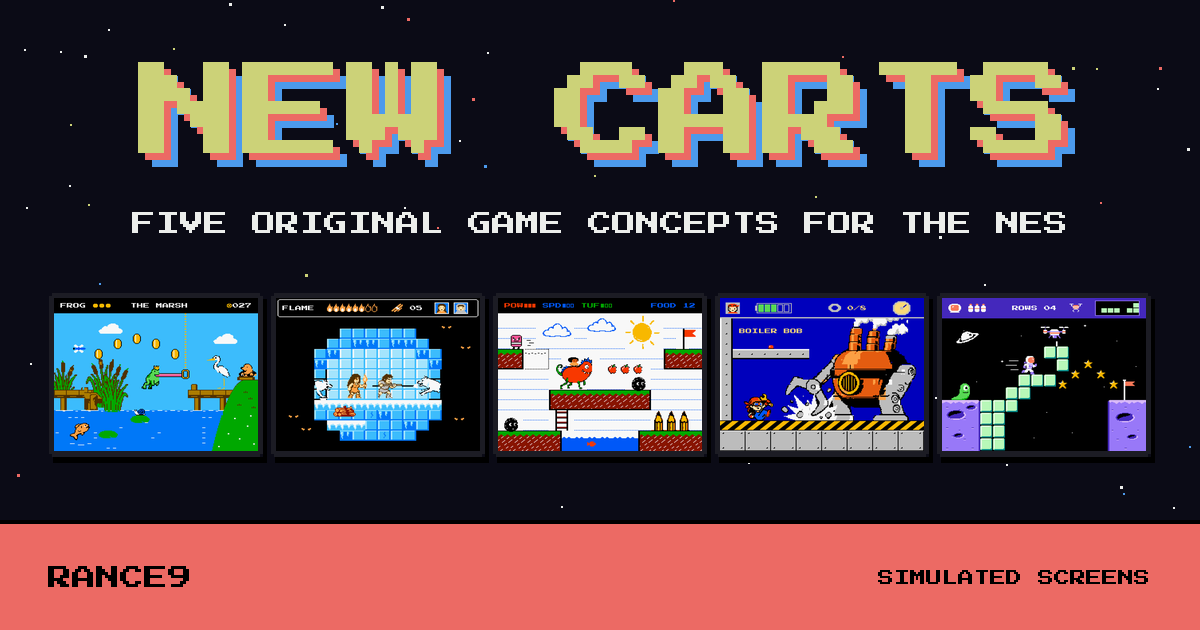
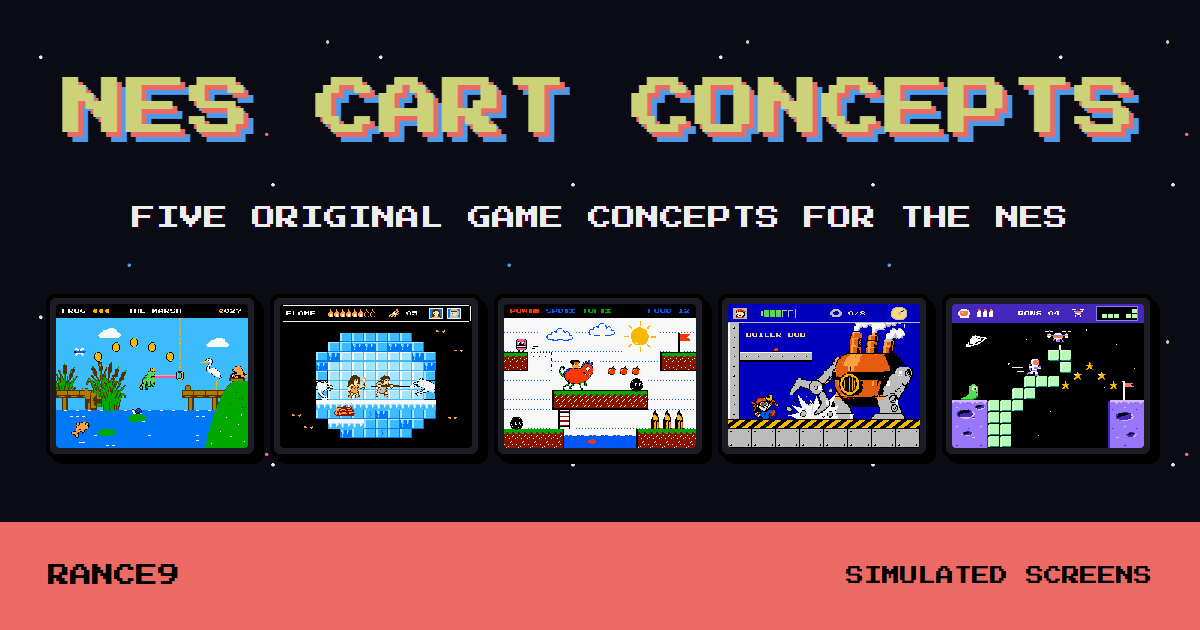
Rename New Carts to NES Cart Concepts and line up the project cards
Home page: the project card is now NES Cart Concepts, with its title in
the concepts page's pixel logo colours. On wide screens the four cards
share row tracks, so each title, tagline, release, divider, description
and button lines up with the same part of the card beside it.

Concepts page: new title, head text and structured data; the Press Start
button, the ticker and top-bar count, and the closing call-out section
are removed, along with their unused styles. The sharing image and
llms.txt use the new name.

diff --git a/new-carts/index.html b/new-carts/index.html
@@ -4,28 +4,28 @@
   <meta charset="utf-8">
   <meta name="viewport" content="width=device-width, initial-scale=1">
   <meta http-equiv="Content-Security-Policy" content="default-src 'none'; img-src 'self'; style-src 'self'; font-src 'self'; script-src 'self'; base-uri 'none'; form-action 'none'; object-src 'none'">
-  <title>New Carts: Five Original NES Game Concepts | Rance9</title>
-  <meta name="description" content="Five original game concepts for the NES from Rance9: Crowned, One Flame, Scribble Beast, Bolts and Drop &amp; Dash. Pick the cart you would play first.">
+  <title>NES Cart Concepts: Five Original Game Concepts | Rance9</title>
+  <meta name="description" content="Five original game concepts for the NES from Rance9: Crowned, One Flame, Scribble Beast, Bolts and Drop &amp; Dash.">
   <link rel="canonical" href="https://rance9.com/new-carts/">
   <meta name="theme-color" content="#0b0b16">
   <meta name="color-scheme" content="dark">
 
   <meta property="og:type" content="website">
   <meta property="og:site_name" content="Rance9">
-  <meta property="og:title" content="New Carts: five original NES game concepts">
-  <meta property="og:description" content="Five original game concepts for the NES from Rance9: Crowned, One Flame, Scribble Beast, Bolts and Drop &amp; Dash. Pick the cart you would play first.">
+  <meta property="og:title" content="NES Cart Concepts: five original game concepts">
+  <meta property="og:description" content="Five original game concepts for the NES from Rance9: Crowned, One Flame, Scribble Beast, Bolts and Drop &amp; Dash.">
   <meta property="og:url" content="https://rance9.com/new-carts/">
   <meta property="og:image" content="https://rance9.com/assets/images/new-carts/new-carts-og-1200x630.png">
   <meta property="og:image:width" content="1200">
   <meta property="og:image:height" content="630">
   <meta property="og:image:type" content="image/png">
-  <meta property="og:image:alt" content="New Carts in large pixel letters above five simulated game screens in television frames, with the line Five original game concepts for the NES.">
+  <meta property="og:image:alt" content="NES Cart Concepts in large pixel letters above five simulated game screens in television frames, with the line Five original game concepts for the NES.">
 
   <meta name="twitter:card" content="summary_large_image">
-  <meta name="twitter:title" content="New Carts: five original NES game concepts">
-  <meta name="twitter:description" content="Five original game concepts for the NES from Rance9: Crowned, One Flame, Scribble Beast, Bolts and Drop &amp; Dash. Pick the cart you would play first.">
+  <meta name="twitter:title" content="NES Cart Concepts: five original game concepts">
+  <meta name="twitter:description" content="Five original game concepts for the NES from Rance9: Crowned, One Flame, Scribble Beast, Bolts and Drop &amp; Dash.">
   <meta name="twitter:image" content="https://rance9.com/assets/images/new-carts/new-carts-og-1200x630.png">
-  <meta name="twitter:image:alt" content="New Carts in large pixel letters above five simulated game screens in television frames, with the line Five original game concepts for the NES.">
+  <meta name="twitter:image:alt" content="NES Cart Concepts in large pixel letters above five simulated game screens in television frames, with the line Five original game concepts for the NES.">
 
   <link rel="icon" href="/assets/icons/favicon.ico" sizes="16x16 32x32 48x48">
   <link rel="icon" href="/assets/icons/favicon.svg" type="image/svg+xml">
@@ -39,8 +39,8 @@
   {
     "@context": "https://schema.org",
     "@type": "CollectionPage",
-    "name": "New Carts",
-    "description": "Five original game concepts for the NES from Rance9: Crowned, One Flame, Scribble Beast, Bolts and Drop & Dash. Pick the cart you would play first.",
+    "name": "NES Cart Concepts",
+    "description": "Five original game concepts for the NES from Rance9: Crowned, One Flame, Scribble Beast, Bolts and Drop & Dash.",
     "url": "https://rance9.com/new-carts/",
     "isPartOf": {
       "@type": "WebSite",
@@ -178,19 +178,18 @@
 </head>
 <body>
 
-<div class="hud"><div class="wrap px"><a href="/">Rance9</a><span>5 new game concepts</span></div></div>
+<div class="hud"><div class="wrap px"><a href="/">Rance9</a></div></div>
 
 <header class="hero">
   <div class="wrap">
     <p class="px">Rance9 presents</p>
-    <h1>NEW CARTS</h1>
+    <h1>NES CART CONCEPTS</h1>
     <p class="sub">Five original game concepts for the NES.</p>
     <p class="brag">Wear a frog. Carry the fire. Draw a monster. Climb a robot. Bury a boss.</p>
-    <a class="start" href="#select">Press Start</a>
   </div>
   <div class="ticker px" aria-hidden="true"><div>
-    <span>Crowned</span><span>One Flame</span><span>Scribble Beast</span><span>Bolts</span><span>Drop &amp; Dash</span><span>5 new game concepts</span>
-    <span>Crowned</span><span>One Flame</span><span>Scribble Beast</span><span>Bolts</span><span>Drop &amp; Dash</span><span>5 new game concepts</span>
+    <span>Crowned</span><span>One Flame</span><span>Scribble Beast</span><span>Bolts</span><span>Drop &amp; Dash</span>
+    <span>Crowned</span><span>One Flame</span><span>Scribble Beast</span><span>Bolts</span><span>Drop &amp; Dash</span>
   </div></div>
 </header>
 
@@ -340,13 +339,6 @@
 
 </main>
 
-<section class="cta">
-  <div class="wrap">
-    <h2>WHICH CART GOES IN FIRST?</h2>
-    <p>Tell Rance9 which one you would play.</p>
-    <a class="addr" href="mailto:contact@rance9.com?subject=New%20Carts">contact@rance9.com</a>
-  </div>
-</section>
 
 <footer>
   <div class="wrap">

diff --git a/assets/css/styles.css b/assets/css/styles.css
@@ -1102,6 +1102,10 @@ main:focus { outline: none; }
   }
 }
 
+/* Projects: four cards on a shared grid. On wide screens the cards sit two
+   per row and share row tracks (subgrid), so every part of a card (title,
+   tagline, release, divider, description, button) lines up with the same
+   part of the card beside it, whatever the text lengths. */
 #projects .projects-grid {
   display: grid;
   grid-template-columns: minmax(0, 1fr);
@@ -1113,40 +1117,22 @@ main:focus { outline: none; }
   margin: 0;
 }
 
-#projects .product-name--nc {
-  position: relative;
-  font-family: var(--mono);
-  font-weight: 700;
-  font-size: 2.5rem;
-  line-height: 1.05;
-  letter-spacing: 0;
-}
-
+/* NES Cart Concepts: the title wears its page's logo, lemon pixel letters
+   with coral and sky-blue layered shadows. */
+#projects .product-name--nc .product-name-top,
 #projects .product-name--nc .product-name-bottom {
-  color: var(--card-text);
+  color: #ccd278;
+  text-shadow: 2px 2px 0 #ec6a64, 4px 4px 0 #4c9aec;
+}
+#projects .product-name--nc .product-name-bottom {
   letter-spacing: 0;
   margin-right: 0;
 }
 
-#projects .product-name--nc::after {
-  content: "";
-  position: absolute;
-  left: calc(50% - 18px);
-  bottom: -6px;
-  width: 4px;
-  height: 4px;
-  background: #d48820;
-  box-shadow:
-    8px 0 #ec6a64,
-    16px 0 #982220,
-    24px 0 #ccd278,
-    32px 0 #98e2b4;
-  pointer-events: none;
-}
-
-@media (max-width: 1023px) {
-  #projects .product-name--nc {
-    font-size: 2.25rem;
+@media (max-width: 359px) {
+  #projects .product-name--nc .product-name-top,
+  #projects .product-name--nc .product-name-bottom {
+    text-shadow: 1px 1px 0 #ec6a64, 2px 2px 0 #4c9aec;
   }
 }
 
@@ -1156,19 +1142,37 @@ main:focus { outline: none; }
   }
 
   #projects .projects-grid > .product-card {
+    grid-row: span 5;
     grid-template-columns: minmax(0, 1fr);
+    grid-template-rows: subgrid;
+    row-gap: 0;
+    align-items: start;
   }
 
   #projects .projects-grid > .product-card > .product-id {
+    grid-row: 1 / span 3;
+    display: grid;
+    grid-template-rows: subgrid;
+    row-gap: 0;
+    justify-items: center;
     padding-right: 0;
   }
 
   #projects .projects-grid > .product-card > .product-info {
-    align-items: center;
+    grid-row: 4 / span 2;
+    display: grid;
+    grid-template-rows: subgrid;
+    row-gap: 0;
+    align-items: start;
+    justify-items: center;
     text-align: center;
     border-left: 0;
     border-top: 1px solid var(--card-rule);
     margin-top: 1.4rem;
     padding: 1.4rem 0 0;
+  }
+
+  #projects .projects-grid .product-name {
+    align-self: end;
   }
 }

diff --git a/assets/css/new-carts.css b/assets/css/new-carts.css
@@ -26,7 +26,6 @@ ul{margin:0;padding:0;list-style:none}
 .hud{background:var(--black);border-bottom:4px solid var(--line)}
 .hud .wrap{display:flex;flex-wrap:wrap;justify-content:space-between;gap:8px 24px;padding-block:12px}
 .hud a{text-decoration:none;color:var(--lemon)}
-.hud span{color:var(--dim)}
 
 /* attract screen */
 .hero{background:
@@ -39,9 +38,6 @@ ul{margin:0;padding:0;list-style:none}
 .hero h1{font-size:clamp(2.6rem,11vw,7.4rem);color:var(--lemon);text-shadow:.07em .07em 0 var(--coral),.14em .14em 0 var(--sky);letter-spacing:.02em}
 .hero .sub{font-size:clamp(1.7rem,3.6vw,2.6rem);max-width:22ch}
 .hero .brag{font-family:var(--display);font-size:clamp(.7rem,1.6vw,1rem);line-height:1.9;color:var(--cream)}
-.start{display:inline-block;font-family:var(--display);font-size:clamp(.9rem,2vw,1.2rem);text-decoration:none;color:var(--black);background:var(--lemon);padding:18px 26px;border:4px solid var(--black);box-shadow:6px 6px 0 var(--coral);animation:blink 1.1s steps(1) infinite}
-.start:hover{background:var(--text);animation:none}
-@keyframes blink{0%,60%{opacity:1}61%,100%{opacity:.35}}
 .ticker{background:var(--coral);color:var(--black);border-block:4px solid var(--black);overflow:hidden;white-space:nowrap}
 .ticker div{display:inline-block;padding-block:10px;animation:slide 26s linear infinite}
 .ticker span{display:inline-block;padding-inline:18px}
@@ -117,10 +113,6 @@ tbody tr:nth-child(odd){background:#10101e}
 .plain .px{color:var(--lemon)}
 
 /* last word */
-.cta{background:var(--lemon);color:var(--black);border-block:4px solid var(--black);text-align:center}
-.cta .wrap{display:flex;flex-direction:column;align-items:center;gap:18px;padding-block:56px}
-.cta h2{font-size:clamp(1.1rem,3.6vw,2.1rem)}
-.cta .addr{font-family:var(--display);font-size:clamp(.75rem,2.4vw,1.1rem);background:var(--black);color:var(--lemon);padding:16px 20px;text-decoration:none;box-shadow:6px 6px 0 var(--coral);user-select:all;overflow-wrap:anywhere}
 footer{background:var(--black);color:var(--dim)}
 footer .wrap{display:flex;flex-direction:column;gap:14px;padding-block:40px 56px;font-size:1.25rem}
 footer p{max-width:78ch}
@@ -149,6 +141,6 @@ dialog button{font-family:var(--display);font-size:.7rem;background:var(--lemon)
 }
 @media (prefers-reduced-motion:reduce){
   html{scroll-behavior:auto}
-  .start,.ticker div{animation:none}
+  .ticker div{animation:none}
   .cart,.tv{transition:none}
 }

diff --git a/index.html b/index.html
@@ -196,13 +196,13 @@
         </article>
         <article class="product-card" aria-labelledby="product-name-nc" data-product="nc">
           <div class="product-id">
-            <h3 class="product-name product-name--nc" id="product-name-nc"><span class="product-name-top">NEW</span> <span class="product-name-bottom">CARTS</span></h3>
+            <h3 class="product-name product-name--nc" id="product-name-nc"><span class="product-name-top">NES CART</span> <span class="product-name-bottom">CONCEPTS</span></h3>
             <p class="product-tagline">New games for an old console.</p>
             <p class="product-release">In concept</p>
           </div>
           <div class="product-info">
             <p class="product-description">Five original game concepts for the NES.</p>
-            <a class="button" href="/new-carts/">See the concepts<span class="visually-hidden"> (New Carts)</span></a>
+            <a class="button" href="/new-carts/">See the concepts<span class="visually-hidden"> (NES Cart Concepts)</span></a>
           </div>
         </article>
         <article class="product-card" aria-labelledby="product-name-tbm" data-product="tbm">
